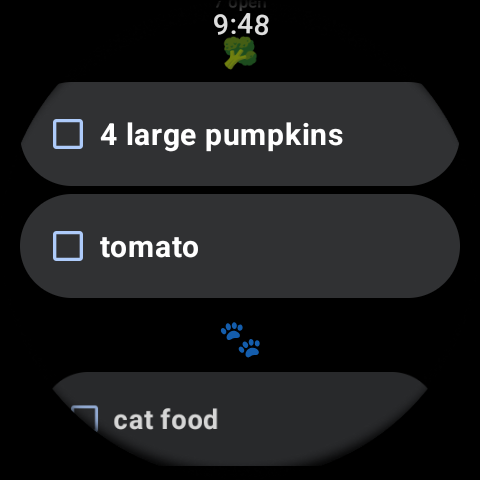
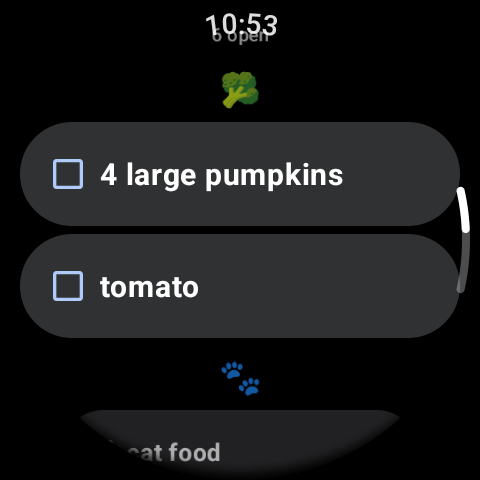
feat: add Wear OS companion app and tile
- Create new `:wear` module featuring a Compose-based Wear OS application for managing shopping items.
- Implement automatic settings synchronization (URL, token, and display mode) from the handheld app using the Wearable Data Layer.
- Add a Wear OS Tile to view and toggle the first 7 shopping items directly from the watch face.
- Introduce `HaWearClient` to handle direct Home Assistant API requests from the watch.
- Add `WearSettingsSyncService` to the handheld app to respond to sync requests from the watch.
- Update `README.md` and `README.de.md` with documentation for the Wear OS companion app.
- Bump `versionCode` to `1010000` and `versionName` to `1.10.0` in `app/build.gradle.kts`.
- Include the new `:wear` module in `settings.gradle.kts` and add necessary Wear OS dependencies to `gradle/libs.versions.toml`.

diff --git a/wear/src/main/java/de/robnice/homeshoplist/wear/WearViewModel.kt b/wear/src/main/java/de/robnice/homeshoplist/wear/WearViewModel.kt
@@ -1,6 +1,8 @@
 package de.robnice.homeshoplist.wear
 
 import android.app.Application
+import android.content.SharedPreferences
+import android.net.Uri
 import androidx.lifecycle.AndroidViewModel
 import androidx.lifecycle.viewModelScope
 import com.google.android.gms.wearable.DataEvent
@@ -31,6 +33,25 @@ class WearViewModel(app: Application) : AndroidViewModel(app) {
     val listDisplayMode = _listDisplayMode.asStateFlow()
 
     private var haClient: HaWearClient? = null
+    private var activeSettings: WearSettingsStore.WearSettings? = null
+
+    // SharedPreferences backing WearSettingsStore — must match the name used there.
+    private val prefs: SharedPreferences =
+        app.getSharedPreferences("wear_ha_settings", android.content.Context.MODE_PRIVATE)
+
+    // Fires on the main thread immediately after WearSettingsListenerService writes
+    // new settings, so the app reacts without waiting for the next 8-second refresh tick.
+    private val prefsListener = SharedPreferences.OnSharedPreferenceChangeListener { _, key ->
+        if (key !in setOf("ha_url", "ha_token", "todo_entity", "list_display_mode")) return@OnSharedPreferenceChangeListener
+        val latest = settingsStore.getSettings() ?: return@OnSharedPreferenceChangeListener
+        if (latest != activeSettings) {
+            initClient(latest.url, latest.token, latest.entity)
+            val newMode = settingsStore.getDisplayMode()
+            if (_listDisplayMode.value != newMode) _listDisplayMode.value = newMode
+            refresh()
+            requestTileUpdate()
+        }
+    }
 
     private val dataListener = com.google.android.gms.wearable.DataClient.OnDataChangedListener { events ->
         events.forEach { event ->
@@ -54,16 +75,19 @@ class WearViewModel(app: Application) : AndroidViewModel(app) {
     }
 
     init {
+        prefs.registerOnSharedPreferenceChangeListener(prefsListener)
         Wearable.getDataClient(app).addListener(dataListener)
         val settings = settingsStore.getSettings()
         if (settings != null) {
             initClient(settings.url, settings.token, settings.entity)
         }
-        requestSettingsFromPhone()
+        loadSettingsFromDataLayer()
     }
 
     private fun initClient(url: String, token: String, entity: String) {
+        val settings = WearSettingsStore.WearSettings(url, token, entity)
         haClient = HaWearClient(url, token, entity)
+        activeSettings = settings
         _hasSettings.value = true
     }
 
@@ -113,6 +137,31 @@ class WearViewModel(app: Application) : AndroidViewModel(app) {
         }
     }
 
+    private fun loadSettingsFromDataLayer() {
+        Wearable.getDataClient(getApplication<Application>())
+            .getDataItems(Uri.parse("wear://*/ha_settings"))
+            .addOnSuccessListener { dataItems ->
+                var found = false
+                dataItems.forEach { dataItem ->
+                    val dataMap = DataMapItem.fromDataItem(dataItem).dataMap
+                    val url = dataMap.getString("ha_url")?.takeIf { it.isNotBlank() } ?: return@forEach
+                    val token = dataMap.getString("ha_token")?.takeIf { it.isNotBlank() } ?: return@forEach
+                    val entity = dataMap.getString("todo_entity") ?: return@forEach
+                    settingsStore.saveSettings(url, token, entity)
+                    dataMap.getString("list_display_mode")?.let {
+                        settingsStore.saveDisplayMode(it)
+                        _listDisplayMode.value = it
+                    }
+                    initClient(url, token, entity)
+                    refresh()
+                    found = true
+                }
+                dataItems.release()
+                if (!found) requestSettingsFromPhone()
+            }
+            .addOnFailureListener { requestSettingsFromPhone() }
+    }
+
     private fun requestSettingsFromPhone() {
         Wearable.getNodeClient(getApplication<Application>())
             .connectedNodes
@@ -126,6 +175,7 @@ class WearViewModel(app: Application) : AndroidViewModel(app) {
 
     override fun onCleared() {
         super.onCleared()
+        prefs.unregisterOnSharedPreferenceChangeListener(prefsListener)
         Wearable.getDataClient(getApplication<Application>()).removeListener(dataListener)
     }
 }

diff --git a/wear/src/main/java/de/robnice/homeshoplist/wear/ui/WearApp.kt b/wear/src/main/java/de/robnice/homeshoplist/wear/ui/WearApp.kt
@@ -28,9 +28,16 @@ import androidx.compose.ui.res.stringResource
 import androidx.compose.ui.text.style.TextAlign
 import androidx.compose.ui.text.style.TextDecoration
 import androidx.compose.ui.text.style.TextOverflow
+import androidx.compose.foundation.focusable
+import androidx.compose.foundation.gestures.scrollBy
+import androidx.compose.runtime.rememberCoroutineScope
+import androidx.compose.ui.focus.FocusRequester
+import androidx.compose.ui.focus.focusRequester
+import androidx.compose.ui.input.rotary.onRotaryScrollEvent
 import androidx.compose.ui.unit.dp
 import androidx.compose.ui.unit.sp
 import de.robnice.homeshoplist.R
+import kotlinx.coroutines.launch
 import androidx.wear.compose.material.AutoCenteringParams
 import androidx.wear.compose.material.Button
 import androidx.wear.compose.material.ButtonDefaults
@@ -40,8 +47,10 @@ import androidx.wear.compose.material.CircularProgressIndicator
 import androidx.wear.compose.material.CompactButton
 import androidx.wear.compose.material.Icon
 import androidx.wear.compose.material.MaterialTheme
+import androidx.wear.compose.material.PositionIndicator
 import androidx.wear.compose.material.Scaffold
 import androidx.wear.compose.material.ScalingLazyColumn
+import androidx.wear.compose.material.ScalingLazyListState
 import androidx.wear.compose.material.Text
 import androidx.wear.compose.material.TimeText
 import androidx.wear.compose.material.Vignette
@@ -49,6 +58,7 @@ import androidx.wear.compose.material.VignettePosition
 import androidx.wear.compose.material.dialog.Alert
 import androidx.wear.compose.material.dialog.Dialog
 import androidx.wear.compose.material.items
+import androidx.wear.compose.material.rememberScalingLazyListState
 import de.robnice.homeshoplist.wear.WearViewModel
 import de.robnice.homeshoplist.wear.model.AREA_EMOJIS
 import de.robnice.homeshoplist.wear.model.WearShoppingItem
@@ -71,9 +81,12 @@ fun WearApp(viewModel: WearViewModel) {
         }
     }
 
+    val listState = rememberScalingLazyListState()
+
     Scaffold(
         timeText = { TimeText() },
-        vignette = { Vignette(vignettePosition = VignettePosition.TopAndBottom) }
+        vignette = { Vignette(vignettePosition = VignettePosition.TopAndBottom) },
+        positionIndicator = { PositionIndicator(scalingLazyListState = listState) }
     ) {
         if (!hasSettings) {
             SetupScreen()
@@ -84,7 +97,8 @@ fun WearApp(viewModel: WearViewModel) {
                 error = error,
                 listDisplayMode = listDisplayMode,
                 onToggle = viewModel::toggleItem,
-                onClearCompleted = viewModel::clearCompleted
+                onClearCompleted = viewModel::clearCompleted,
+                listState = listState
             )
         }
     }
@@ -97,16 +111,29 @@ private fun ShoppingListScreen(
     error: String?,
     listDisplayMode: String,
     onToggle: (WearShoppingItem) -> Unit,
-    onClearCompleted: () -> Unit
+    onClearCompleted: () -> Unit,
+    listState: ScalingLazyListState
 ) {
     val unchecked = items.filter { !it.complete }
     val checked = items.filter { it.complete }
     val categorized = listDisplayMode == "categorized"
     var showConfirmDelete by remember { mutableStateOf(false) }
+    val focusRequester = remember { FocusRequester() }
+    val coroutineScope = rememberCoroutineScope()
+
+    LaunchedEffect(Unit) { focusRequester.requestFocus() }
 
     ScalingLazyColumn(
-        modifier = Modifier.fillMaxSize(),
-        autoCentering = AutoCenteringParams(itemIndex = 0)
+        modifier = Modifier
+            .fillMaxSize()
+            .focusRequester(focusRequester)
+            .onRotaryScrollEvent { event ->
+                coroutineScope.launch { listState.scrollBy(event.verticalScrollPixels) }
+                true
+            }
+            .focusable(),
+        autoCentering = AutoCenteringParams(itemIndex = 0),
+        state = listState
     ) {
         item(key = "status_row") {
             StatusRow(uncheckedCount = unchecked.size, isLoading = isLoading, error = error)

diff --git a/wear/src/main/java/de/robnice/homeshoplist/wear/WearSettingsListenerService.kt b/wear/src/main/java/de/robnice/homeshoplist/wear/WearSettingsListenerService.kt
@@ -1,8 +1,10 @@
 package de.robnice.homeshoplist.wear
 
+import androidx.wear.tiles.TileService
 import com.google.android.gms.wearable.DataEventBuffer
 import com.google.android.gms.wearable.DataMapItem
 import com.google.android.gms.wearable.WearableListenerService
+import de.robnice.homeshoplist.wear.tile.ShoppingTileService
 
 class WearSettingsListenerService : WearableListenerService() {
 
@@ -17,6 +19,10 @@ class WearSettingsListenerService : WearableListenerService() {
             val store = WearSettingsStore(applicationContext)
             store.saveSettings(url, token, entity)
             dataMap.getString("list_display_mode")?.let { store.saveDisplayMode(it) }
+            runCatching {
+                TileService.getUpdater(applicationContext)
+                    .requestUpdate(ShoppingTileService::class.java)
+            }
         }
     }
 }
